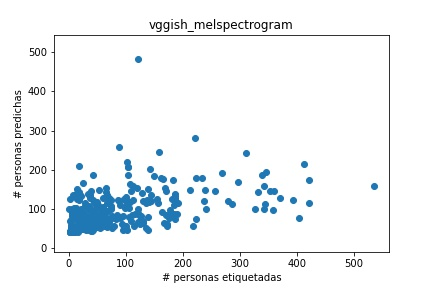
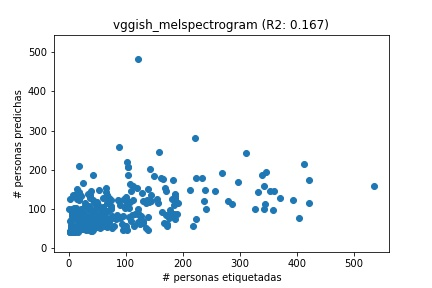
Añadido el coeficiente de determinación R

Changed region(s): [[0.2708, 0.0625, 0.7824, 0.125]]

diff --git a/generar_regression_plot.py b/generar_regression_plot.py
@@ -16,6 +16,7 @@ import numpy as np
 import pickle
 import os
 import matplotlib.pyplot as plt 
+from sklearn.metrics import r2_score
 
 # PATH = '/home/pakitochus/Dropbox/Docencia/TFGs/Cristina/countcrowd_TFG/RESULTADOS'
 PATH = '/home/pakitochus/Descargas/cosas_cristfg/Pickles'
@@ -44,7 +45,8 @@ for fil in files:
     ypredicha *=norm 
     fig, ax = plt.subplots()
     ax.scatter(yreal, ypredicha)
-    ax.set_title(title)
+    r2 = r2_score(yreal, ypredicha)
+    ax.set_title(f'{title} (R2: {r2:.3f})')
     ax.set_xlabel('# personas etiquetadas')
     ax.set_ylabel('# personas predichas')
     xmin, xmax = 0, yreal.max()
